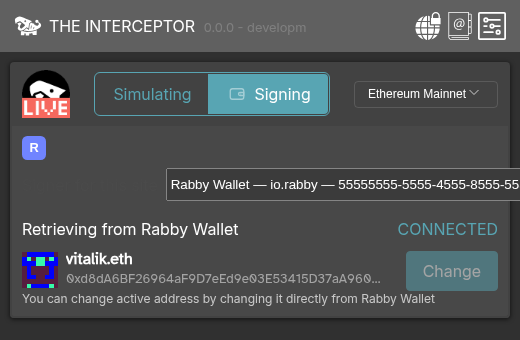
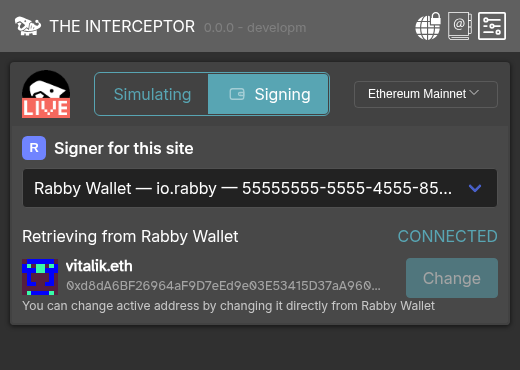
Fix signer provider selector layout

Changed region(s): [[0.0, 0.0294, 1.0, 0.5588], [0.0, 0.6176, 0.9846, 0.9118], [0.7077, 0.2353, 0.9231, 0.2941]]

diff --git a/app/ts/components/pages/Home.tsx b/app/ts/components/pages/Home.tsx
@@ -237,16 +237,16 @@ function SignerProviderSelector(param: { tabState: Signal<TabState | undefined>,
 			},
 		})
 	}
-	return <div style = 'display: flex; align-items: center; gap: 0.5rem; margin-bottom: 1rem; flex-wrap: wrap;' title = 'Wallet names and icons are self-reported by installed providers.'>
-		{ selectedProvider === undefined
-			? <span class = 'signer-logo-slot' aria-hidden = 'true'></span>
-			: <img src = { selectedProvider.icon } width = '24' height = '24' alt = '' style = 'object-fit: contain;'/> }
-		<label style = 'display: flex; align-items: center; gap: 0.5rem; flex: 1;'>
+	return <div class = 'signer-provider-selector' title = 'Wallet names and icons are self-reported by installed providers.'>
+		<label class = 'signer-provider-selector-label' for = 'signer-provider-selector'>
+			{ selectedProvider === undefined
+				? <span class = 'signer-logo-slot' aria-hidden = 'true'></span>
+				: <img src = { selectedProvider.icon } width = '24' height = '24' alt = '' class = 'signer-provider-selector-icon'/> }
 			<span>Signer for this site</span>
+		</label>
+		<div class = 'select is-fullwidth signer-provider-selector-control'>
 			<select
 				id = 'signer-provider-selector'
-				class = 'select'
-				style = 'flex: 1; min-width: 0;'
 				value = { selectedProvider?.uuid ?? '' }
 				disabled = { !param.isInitialHomeDataLoaded.value }
 				onInput = { selectProvider }
@@ -254,9 +254,9 @@ function SignerProviderSelector(param: { tabState: Signal<TabState | undefined>,
 				<option value = '' disabled = { true }>{ tabState?.preferredSignerUnavailable === true ? 'Preferred signer needs selection' : 'Choose a signer' }</option>
 				{ providers.map((provider) => <option key = { provider.uuid } value = { provider.uuid }>{ signerProviderOptionLabel(provider) }</option>) }
 			</select>
-		</label>
+		</div>
 		{ tabState?.signerProviderCatalogOverflowed === true
-			? <p class = 'is-size-7' style = 'width: 100%; color: var(--warning-color);'>Too many wallet announcements were received. Only the bounded list above is available; choose a wallet explicitly.</p>
+			? <p class = 'is-size-7 signer-provider-selector-warning'>Too many wallet announcements were received. Only the bounded list above is available; choose a wallet explicitly.</p>
 			: <></> }
 	</div>
 }

diff --git a/test/tests/signerProviderSelector.test.ts b/test/tests/signerProviderSelector.test.ts
@@ -19,3 +19,18 @@ test('signer provider choices visibly disambiguate identical wallet identities b
 	assert.equal(firstLabel.includes(firstProvider.uuid), true)
 	assert.equal(secondLabel.includes(secondProvider.uuid), true)
 })
+
+test('signer provider selector uses the themed full-width Bulma control structure', async () => {
+	const [homeSource, css] = await Promise.all([
+		Bun.file('app/ts/components/pages/Home.tsx').text(),
+		Bun.file('app/css/interceptor.css').text(),
+	])
+
+	assert.match(homeSource, /<label class = 'signer-provider-selector-label' for = 'signer-provider-selector'>/)
+	assert.match(homeSource, /<div class = 'select is-fullwidth signer-provider-selector-control'>\s*<select/)
+	assert.doesNotMatch(homeSource, /<select[\s\S]*?class = 'select'/)
+	assert.match(css, /\.signer-provider-selector-label\s*\{[\s\S]*?color:\s*var\(--text-color\)/)
+	assert.match(css, /\.signer-provider-selector-control,\s*\.signer-provider-selector-control select\s*\{[\s\S]*?min-width:\s*0[\s\S]*?width:\s*100%/)
+	assert.match(css, /\.signer-provider-selector-control select\s*\{[\s\S]*?background-color:\s*var\(--surface-dark-color\)[\s\S]*?color:\s*var\(--text-color\)/)
+	assert.match(css, /\.signer-provider-selector-control select\s*\{[\s\S]*?overflow:\s*hidden[\s\S]*?text-overflow:\s*ellipsis/)
+})

diff --git a/app/css/interceptor.css b/app/css/interceptor.css
@@ -829,6 +829,58 @@ a.dropdown-item.is-active, button.dropdown-item.is-active {
 	width: 18px;
 }
 
+.signer-provider-selector {
+	display: grid;
+	gap: 0.5rem;
+	margin-bottom: 1rem;
+	min-width: 0;
+}
+
+.signer-provider-selector-label {
+	align-items: center;
+	color: var(--text-color);
+	display: flex;
+	font-weight: 600;
+	gap: 0.5rem;
+	line-height: 1.25;
+	min-width: 0;
+}
+
+.signer-provider-selector-icon {
+	height: 24px;
+	object-fit: contain;
+	width: 24px;
+}
+
+.signer-provider-selector-control,
+.signer-provider-selector-control select {
+	min-width: 0;
+	width: 100%;
+}
+
+.signer-provider-selector-control select {
+	background-color: var(--surface-dark-color);
+	border-color: var(--layout-line-color);
+	color: var(--text-color);
+	font-family: "Inter";
+	overflow: hidden;
+	text-overflow: ellipsis;
+}
+
+.signer-provider-selector-control select:hover {
+	border-color: var(--highlighted-primary-color);
+}
+
+.signer-provider-selector-control select:focus {
+	border-color: var(--primary-color);
+	box-shadow: 0 0 0 0.125em color-mix(in srgb, var(--primary-color) 35%, transparent);
+}
+
+.signer-provider-selector-warning {
+	color: var(--warning-color);
+	margin: 0;
+}
+
 svg.spinner {
 	animation: 2s linear infinite svg-animation;
 	max-width: 100px;
